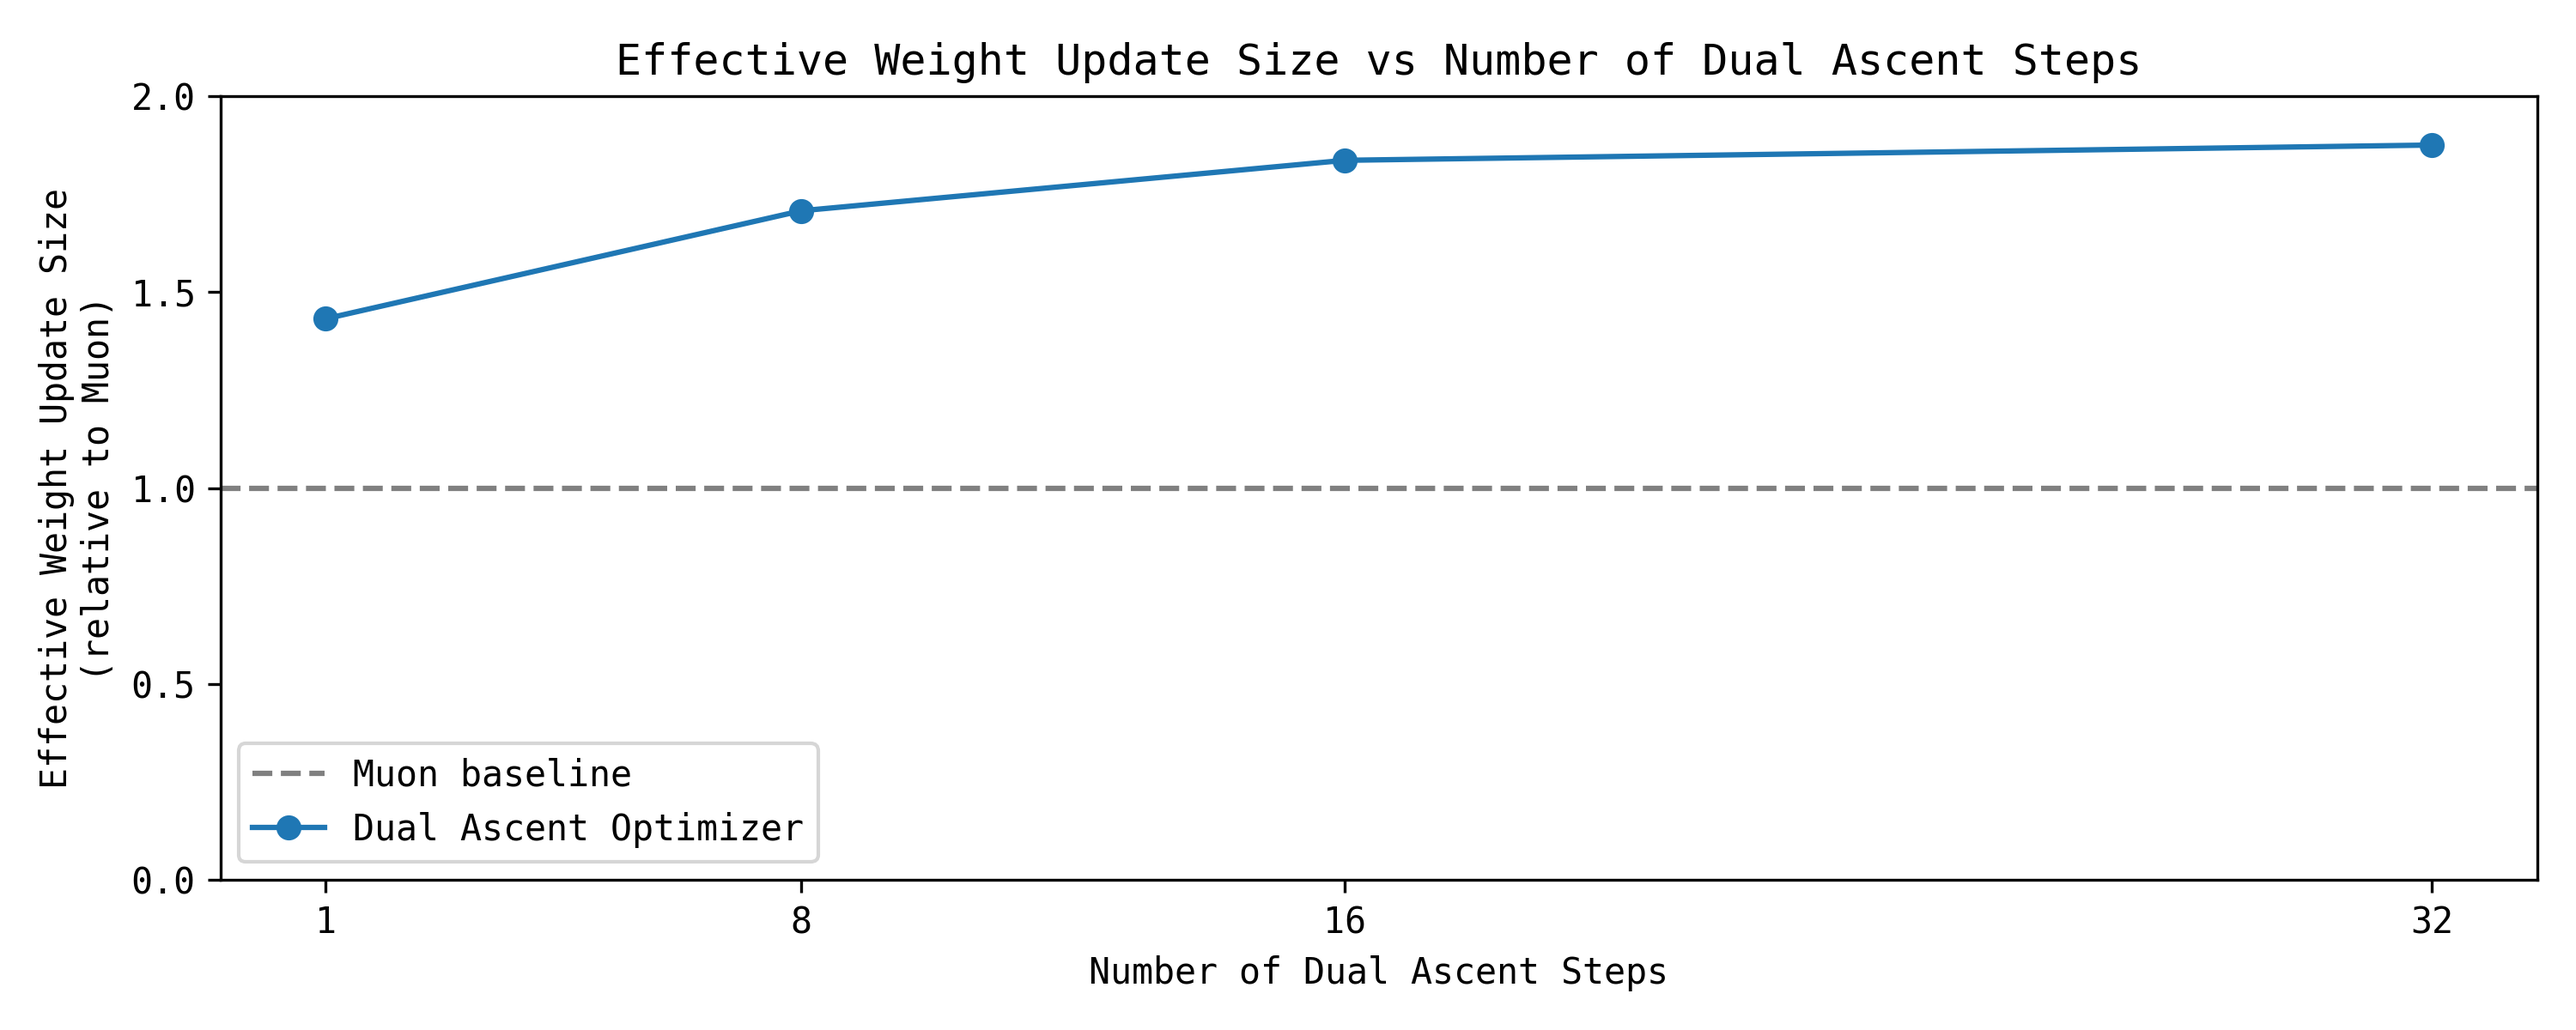
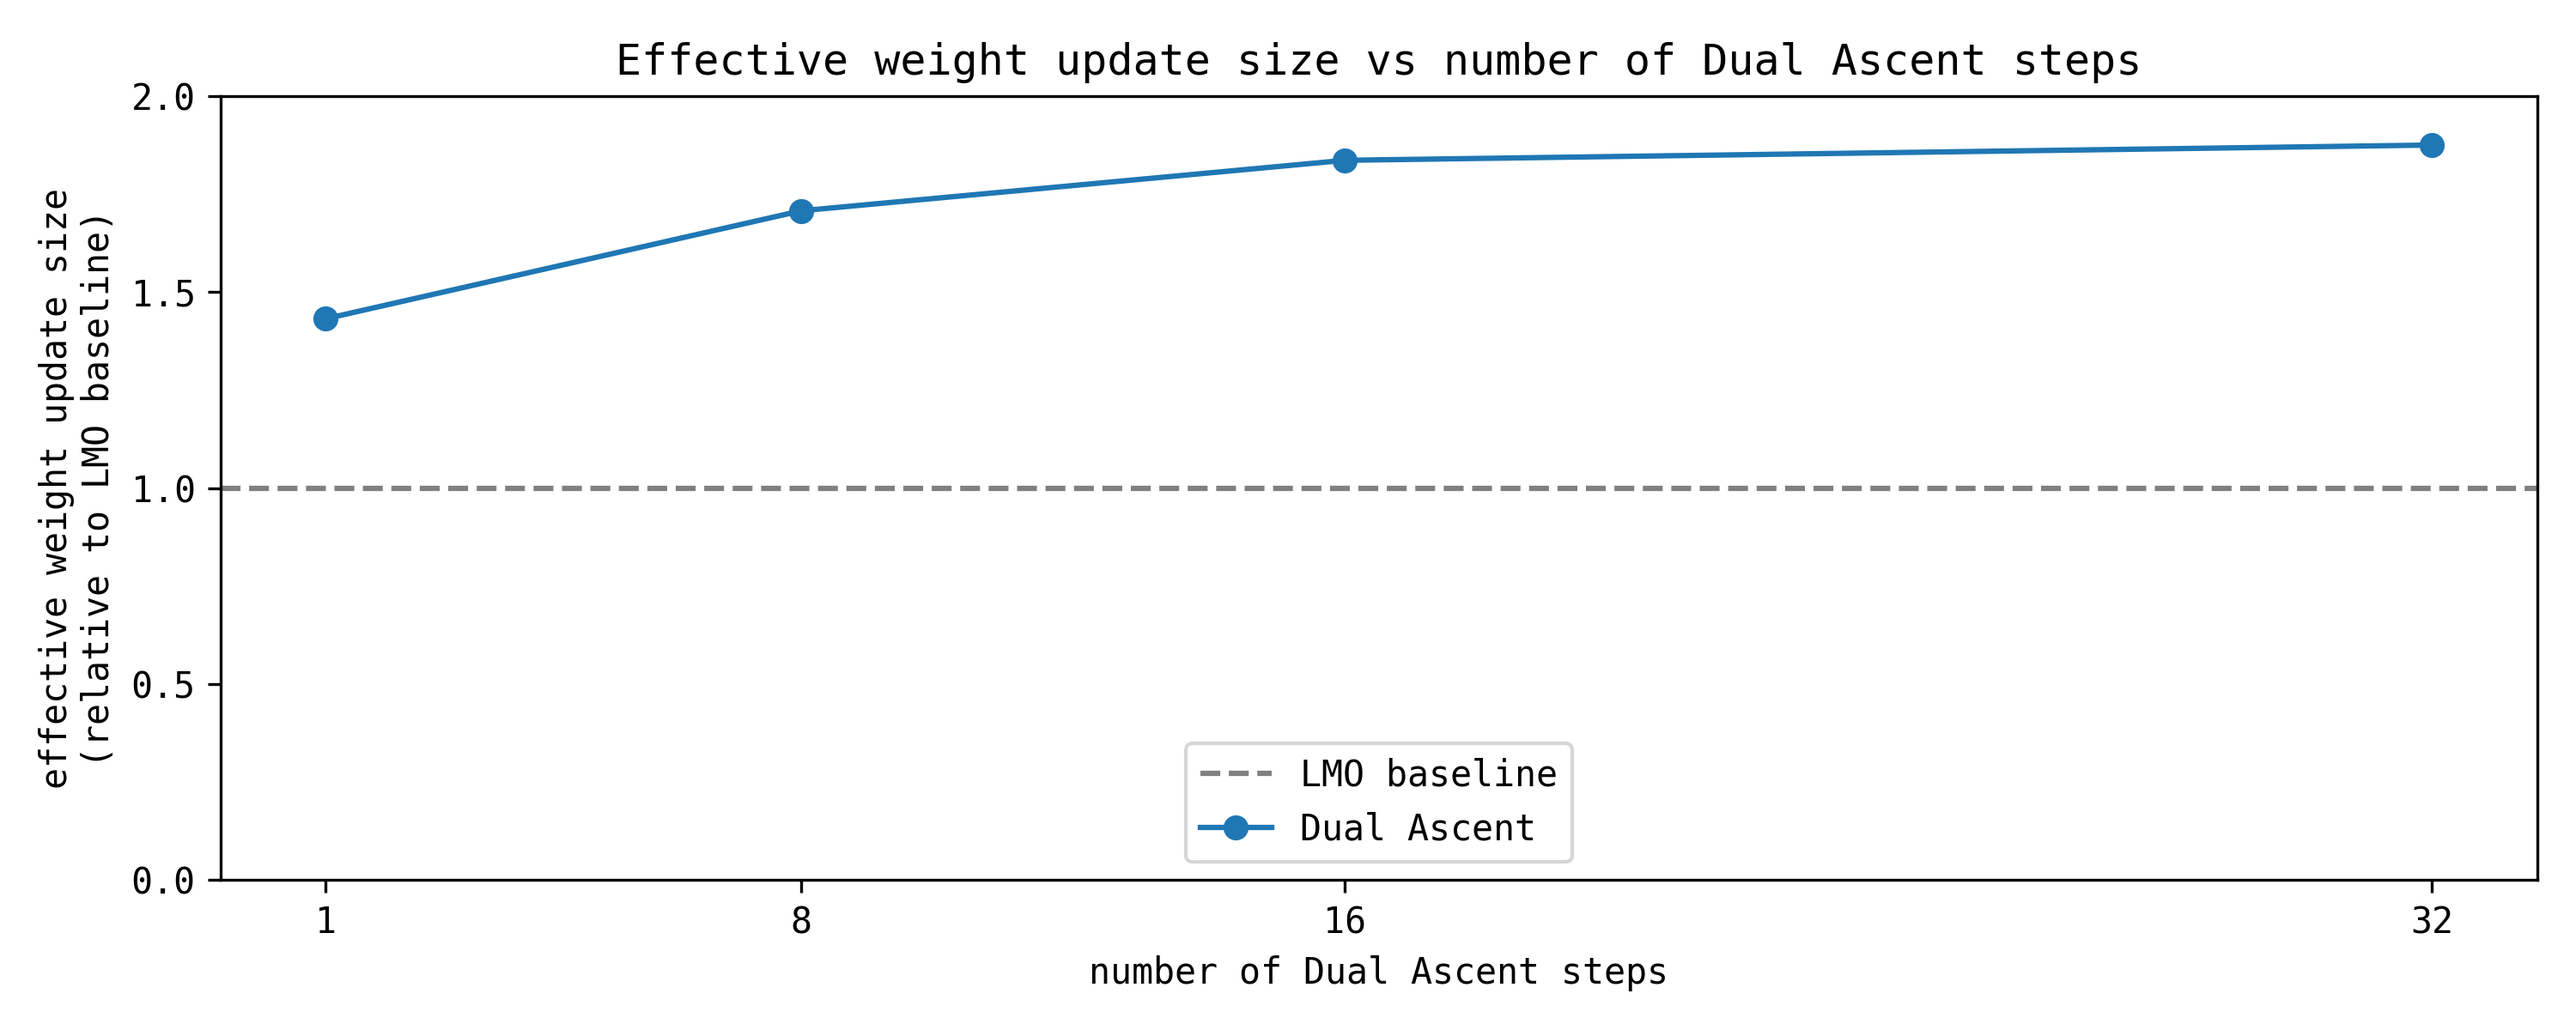
add blog post on steepest descent on birkhoff polytope

diff --git a/content/ponder/steepest-descent-doubly-stochastic/index.md b/content/ponder/steepest-descent-doubly-stochastic/index.md
@@ -117,14 +117,14 @@ Next, we need a retraction map $\texttt{retract}_{\mathcal{B}_n}: \mathbb{R}^{n 
 
 ## Results [under construction]
 
-### Our optimizer yields larger effective weight updates vs Muon
+### Our optimizer yields larger effective weight updates vs LMO-based optimizers
 
 ![](effective_weight_update_size.png#center)
 
 For a random $W \in \mathbb{B}_n$ and $G \in \mathbb{R}^{n \times n}$ with $n = 768$, we compare the effective weight update size, $$\begin{equation}
     \text{eff\_update\_size} = \| \texttt{retract}_{\mathcal{B}_n}(W + A^*) - W \|_F / \eta,
 \end{equation}$$
-of our dual ascent optimizer vs the Muon. We see that our optimizer yields significantly larger effective weight updates across dual ascent steps, outperforming Muon by at least $43\%$ even after only 1 step.
+of our dual ascent optimizer vs LMO baseline. We see that our optimizer yields significantly larger effective weight updates across dual ascent steps, outperforming LMO baseline by at least $43\%$ even after only 1 step.
 
 ## Acknowledgements
 
